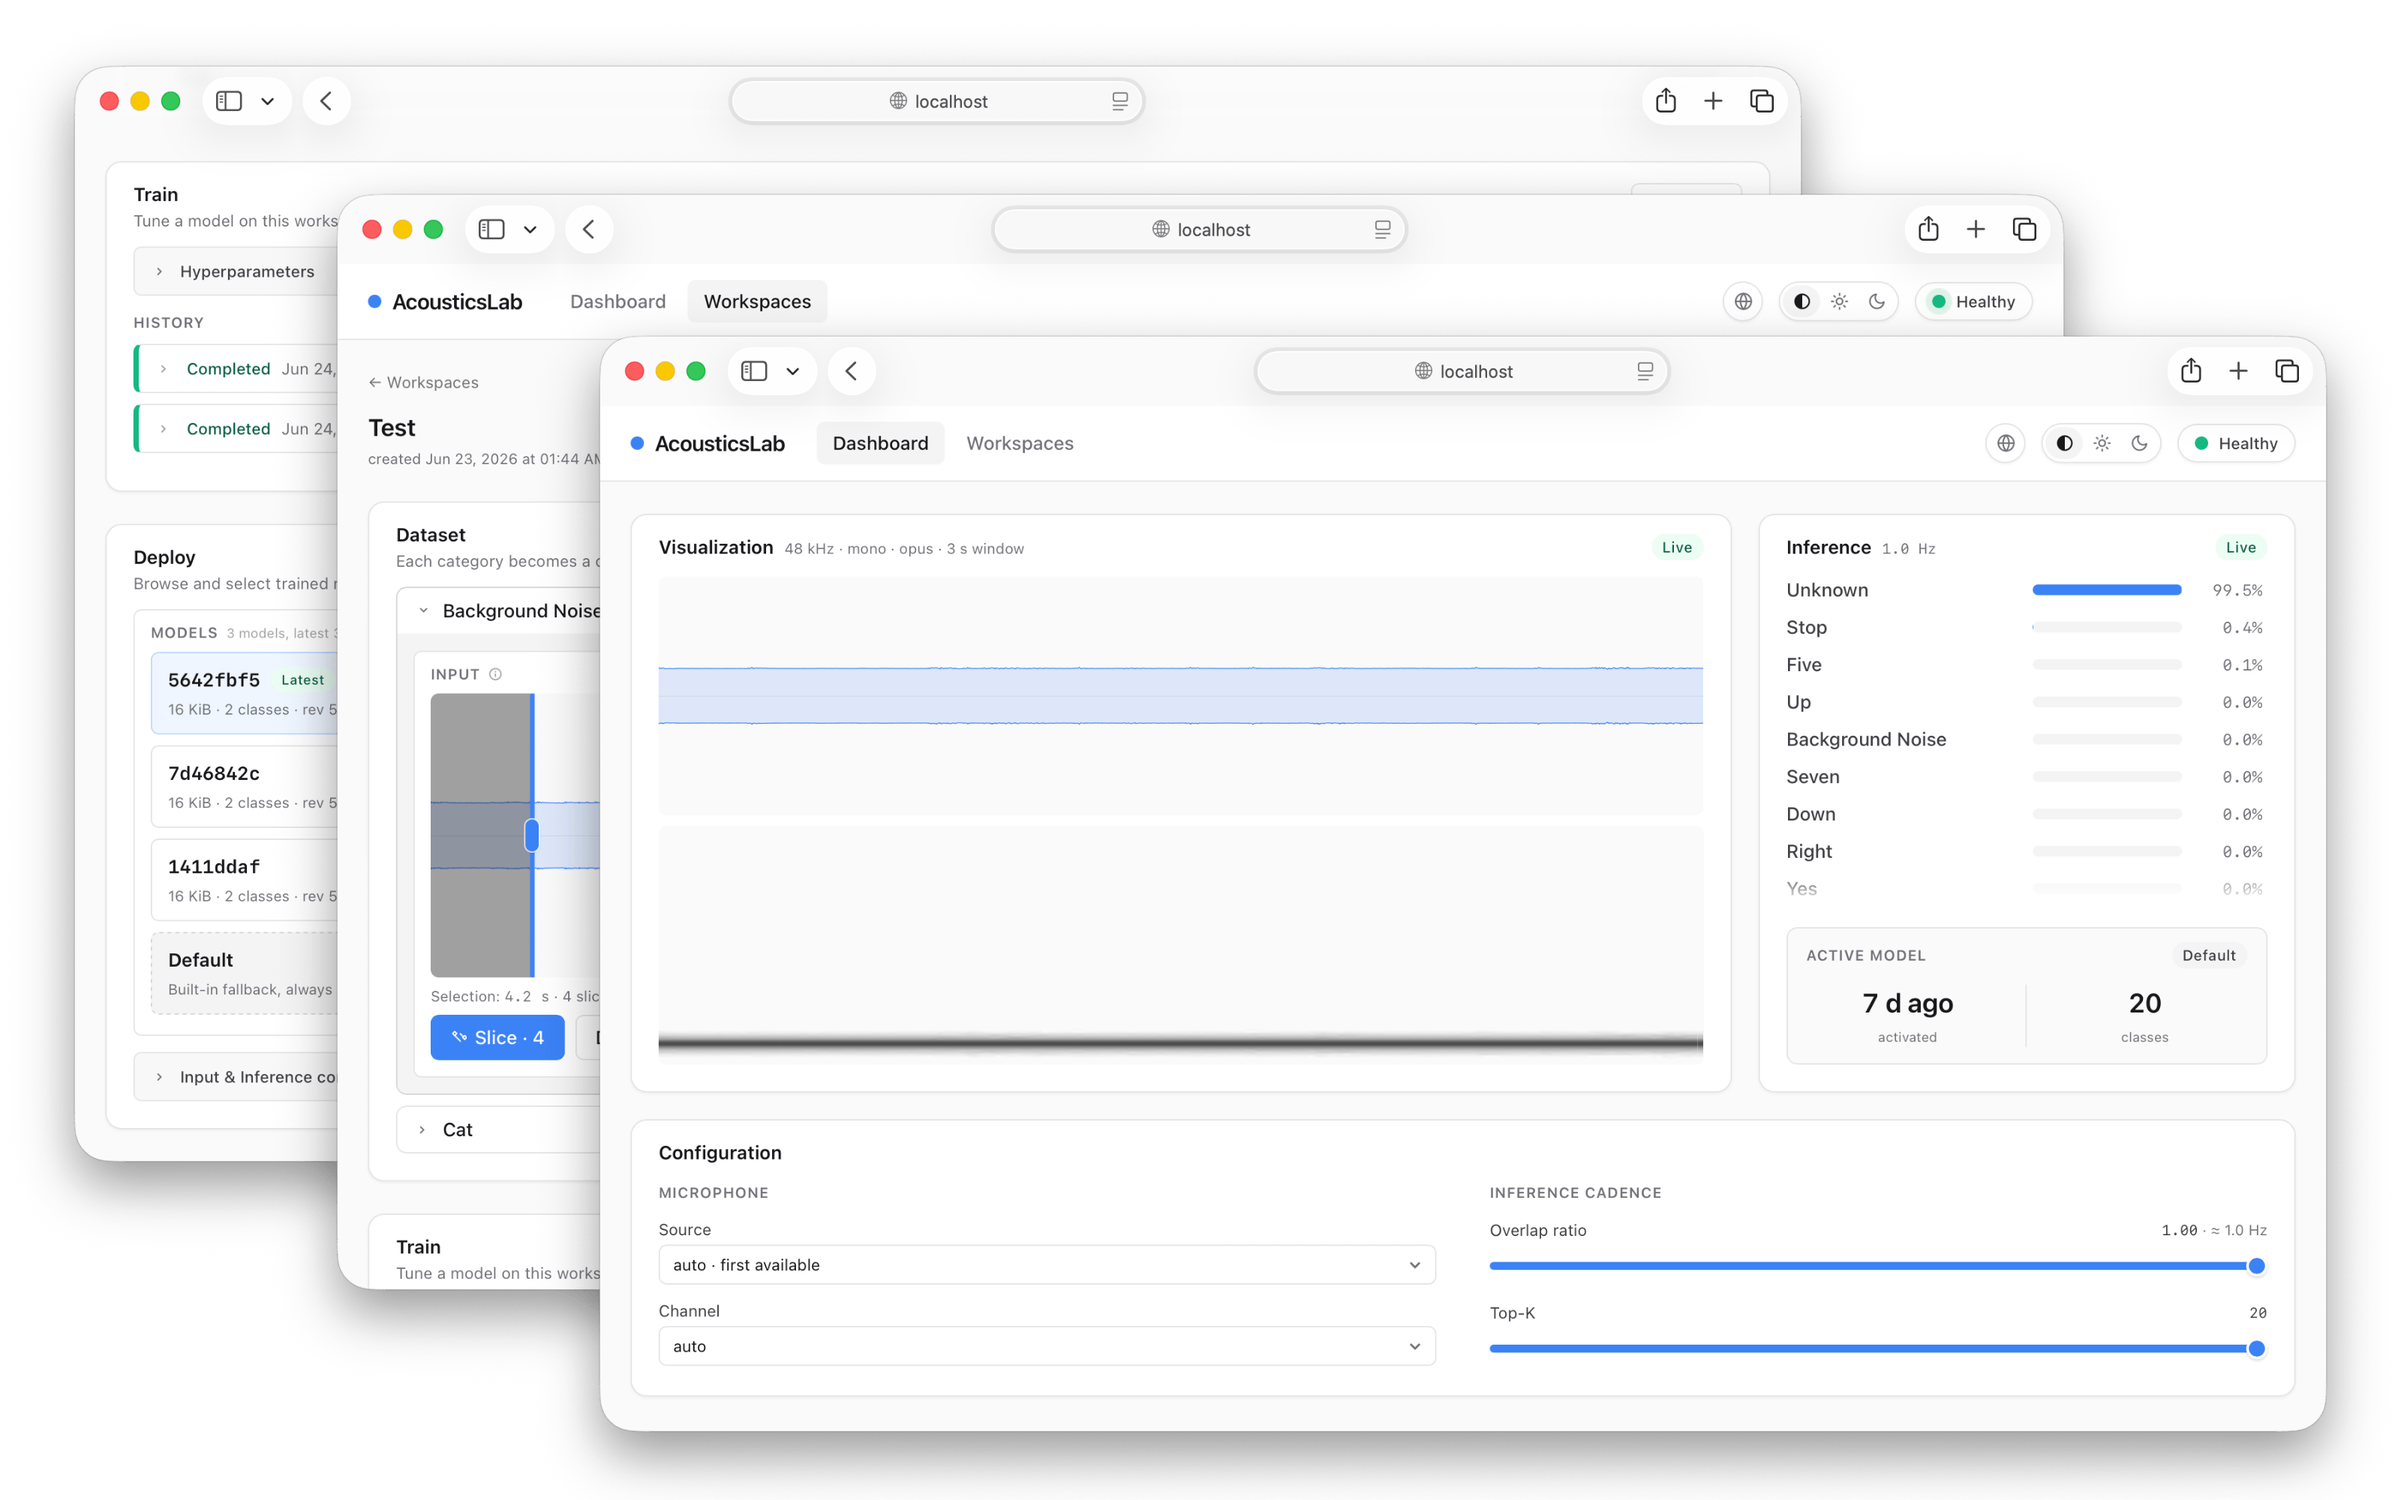
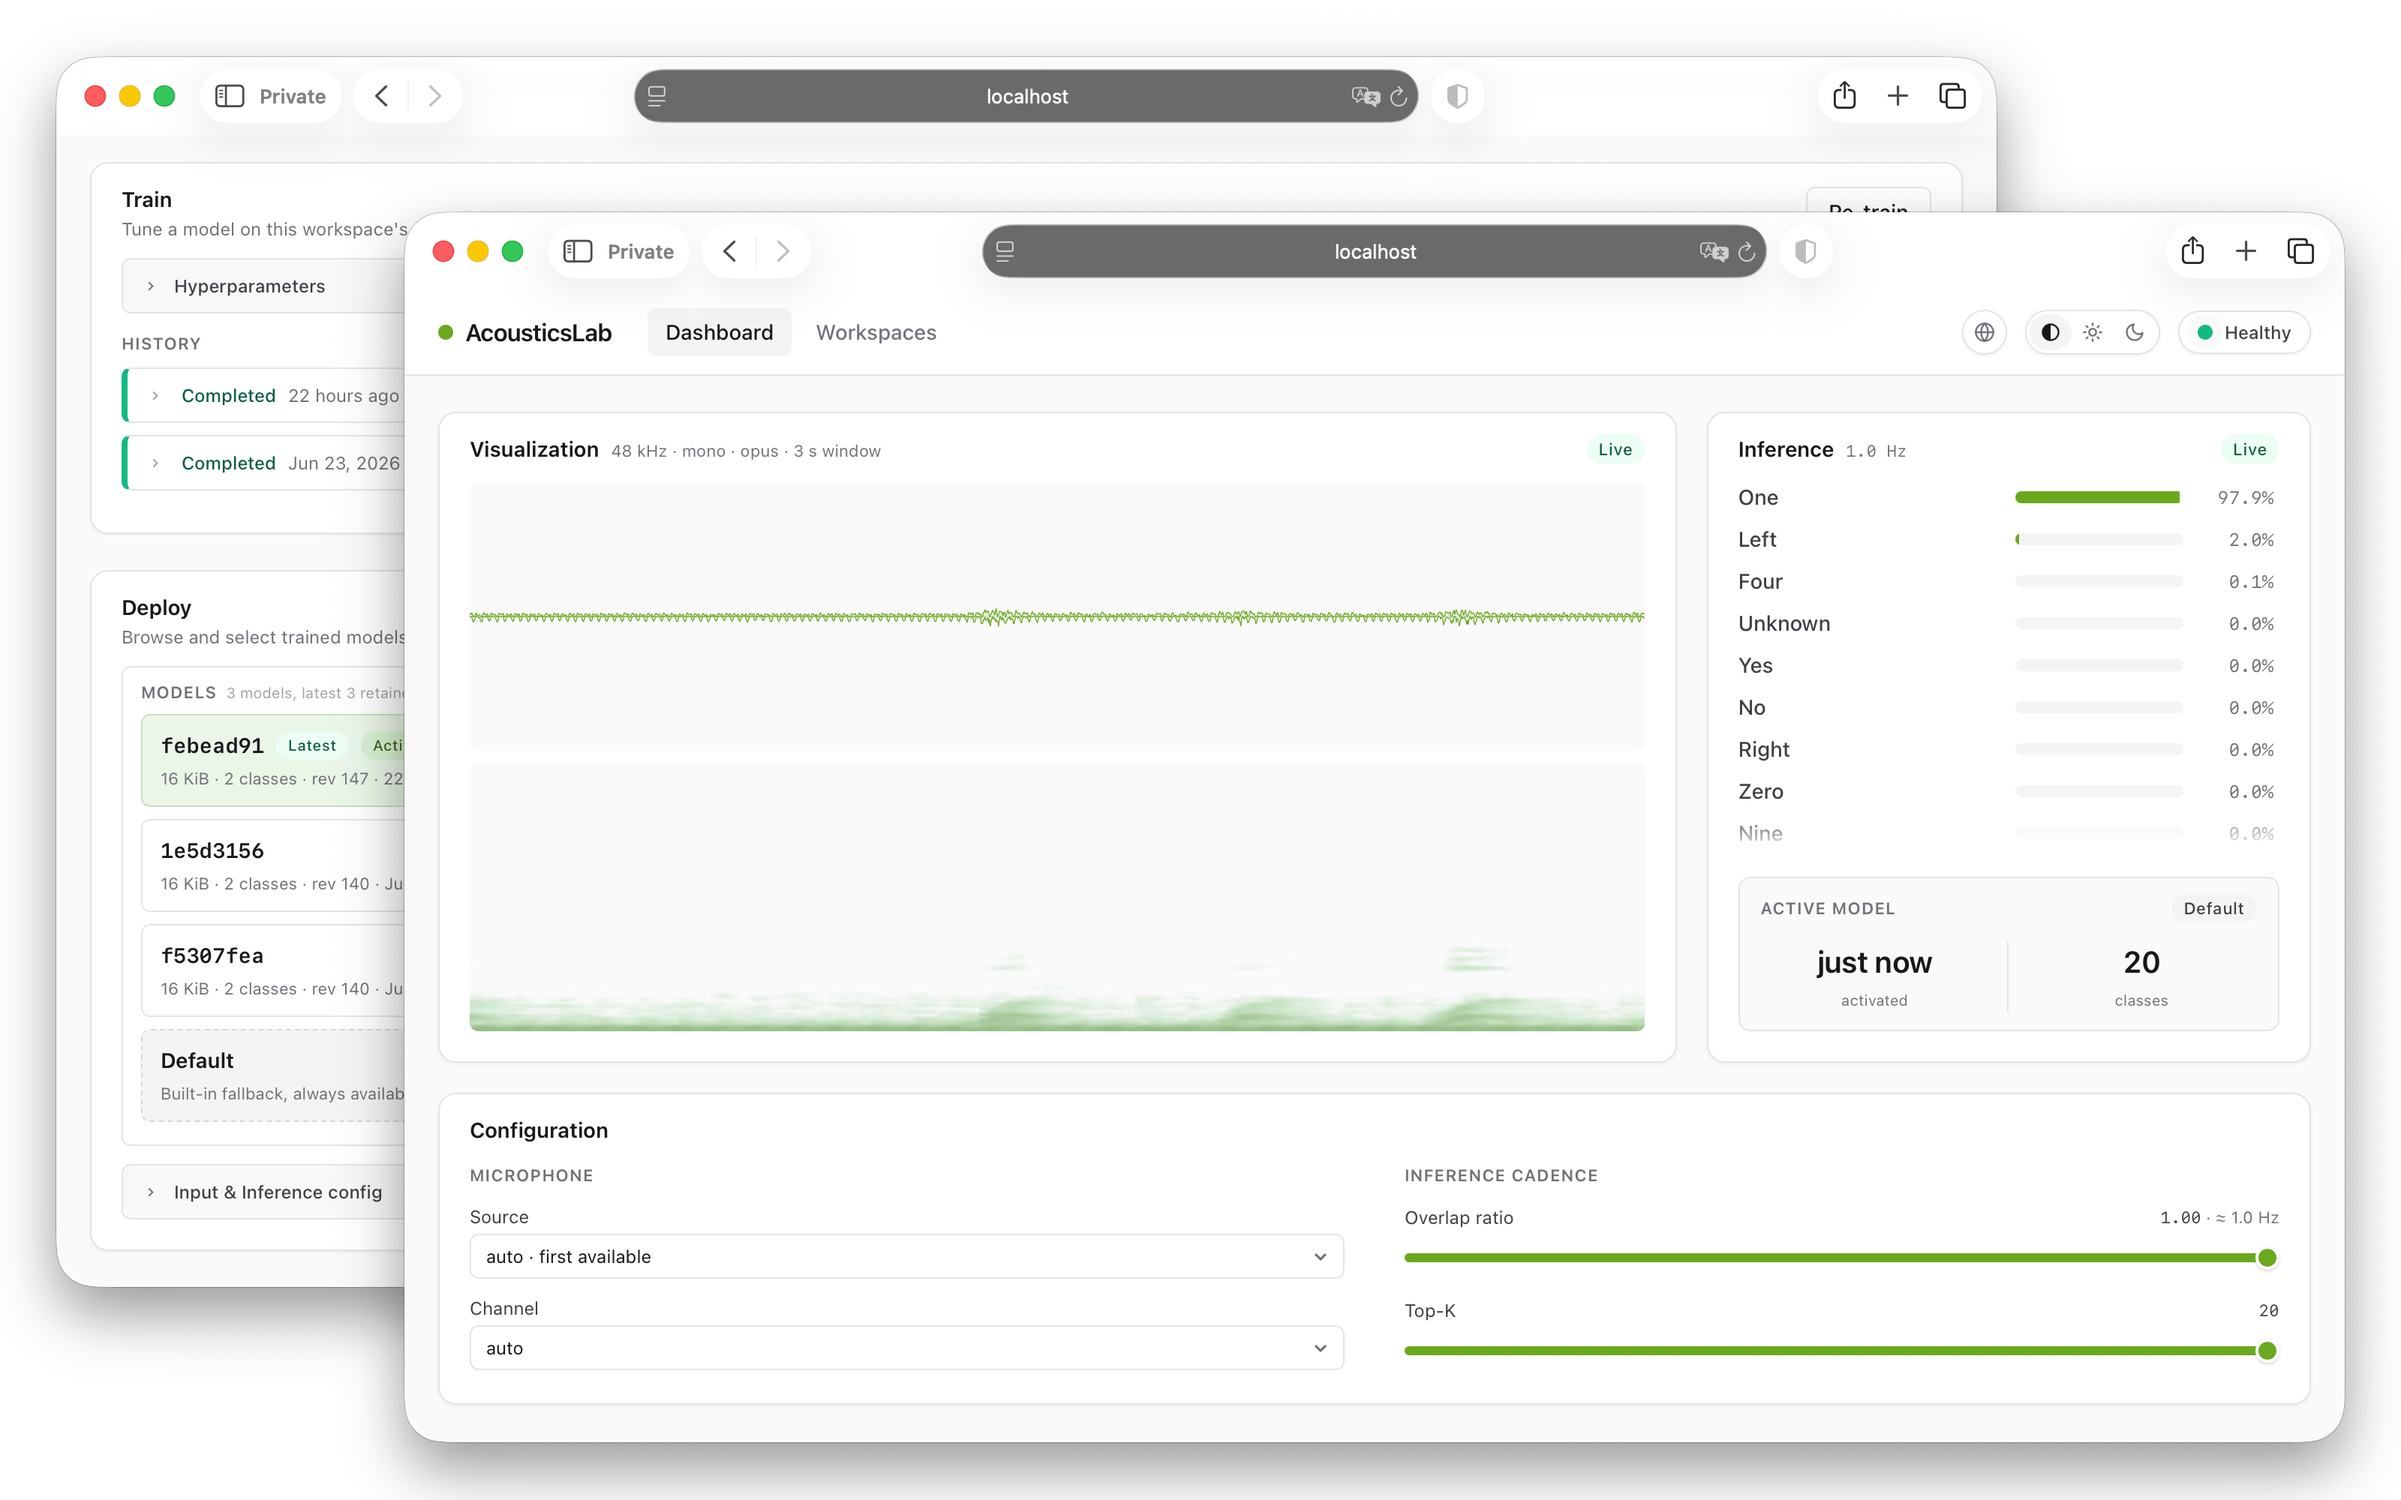
chore: transfer ownership

diff --git a/README.md b/README.md
@@ -13,7 +13,7 @@
   <img src="docs/images/acousticslab-console.png" alt="AcousticsLab Console">
 </div>
 
-The next generation of [AcousticsLab](https://github.com/ekarad1um/AcousticsLab/tree/main), powered by a self-contained Rust backend with hybrid NPU/CPU inference engine and an intuitive Web console, delivering a fully-local, lightweight, efficient, end-to-end platform for acoustics analysis.
+The next generation of [AcousticsLab](https://github.com/Seeed-Studio/AcousticsLab/tree/main), powered by a self-contained Rust backend with hybrid NPU/CPU inference engine and an intuitive Web console, delivering a fully-local, lightweight, efficient, end-to-end platform for acoustics analysis.
 
 
 ## Why AcousticsLab
